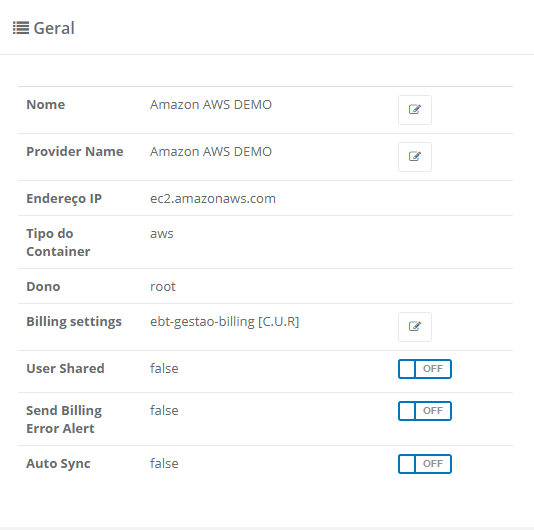
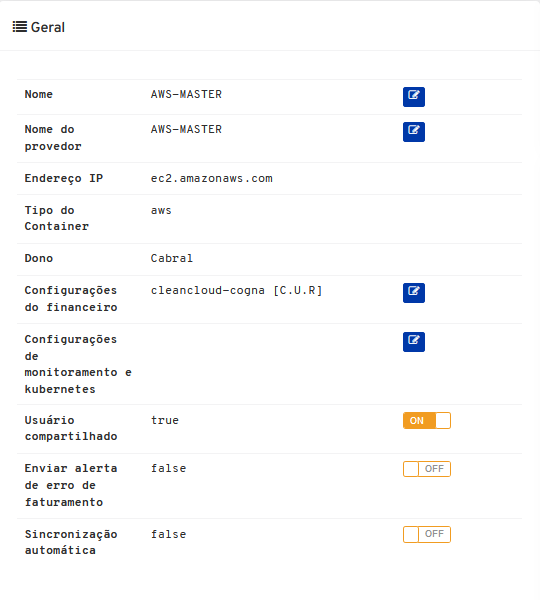
Finalizado menu container e novas telas

diff --git a/Manuais/usr-manual.rst b/Manuais/usr-manual.rst
@@ -3630,10 +3630,10 @@ Portanto, a fórmula para apresentação dos valores dos recursos computacionais
 
 +-----------------------+-------------------+----+-------------------+----+-------------+----+----------------------+
 || **Valor Reais (R$)** || Valor do Recurso ||   || Somatória Mensal ||   || Valor US$  ||   || Taxa de Faturamento |
-||     Total Mensal     || em USN/h         || x || do Consumo USN   || X || [Dia] PTAX || X ||                     |
+||    Total Mensal      || em USN/h         || x || do Consumo USN   || x || [Dia] PTAX || x ||                     |
 +-----------------------+-------------------+----+-------------------+----+-------------+----+----------------------+
 || **Valor Reais (R$)** || Valor do Recurso ||   || Somatória Mensal ||   || Valor US$  ||   || Taxa de Faturamento |
-||    Total Mensal      || em USN/h         || x || do Consumo USN   || X || [Fixa]     || X ||                     |
+||    Total Mensal      || em USN/h         || x || do Consumo USN   || x || [Fixa]     || x ||                     |
 +-----------------------+-------------------+----+-------------------+----+-------------+----+----------------------+
 
 
@@ -3736,11 +3736,13 @@ Menu Containers
 O termo Containers na Plataforma do uCloud é utilizado para representar um Hypervisor, seja este público e/ou privado. Um container é uma abstração lógica para agrupar todos os recursos (máquinas virtuais, servidores, discos, storages) de um determinado tipo de hypervisor. Por exemplo, um container privado representa a conexão com uma instância do VMware vCenter, com um Pool do XenSever ou com o Keystone do Openstack.
 
 Em relação aos provedores de serviço de nuvem pública, a Plataforma do uCloud está preparada para se conectar com as seguintes plataformas de nuvem pública:
+
 * Amazon Web Services (AWS)
 * Google Cloud Platform (GCP)
 * Microsoft Azure
 
 Atualmente, a Plataforma do uCloud está preparada para se conectar com as seguintes plataformas (hypervisors) de gerenciamento de ambiente de nuvem privada:
+
 * VMware (vCenter Versões 5.0, 5.1, 5.5, 6.0, 6.5, 6.7);
 * vCloud
 * Openstack
@@ -3754,11 +3756,88 @@ Depois do provisionamento de um container, a Plataforma do uCloud efetua a ‘im
 
 Quando o usuário acessa o menu Containers, a Plataforma do uCloud apresenta uma lista com os containers provisionados no ambiente do uCloud.
 
+.. image:: /figuras/ucloud_menu_container001.png
+   :alt: Virtual Datacenter - Exemplo
+   :scale: 80 %
+   :align: center
+
+----
+
+* **Botão Conectar Container**: Este botão permite ao usuário configurar e conectar um novo container.
+* **Botão Refresh**: A Plataforma do uCloud se comunica com o console dos provedores através da API Rest, toda ação executada ou configurada, nas telas do uCloud envia ações (tarefas) para o gerenciador de ambiente (console) de nuvem específico (público e/ou privado) para que estes então executem a ação desejada. Ao atualizar apenas o conteúdo das seções de tela (ou as informações contidas nestas seções) é mandatório ao usuário clicar com o mouse sobre o botão Refresh, em seguida ao clique, a Plataforma do uCloud executa apenas a atualização das informações contidas em nossas bases de dados.
+* **Nome**: Esta coluna apresenta o nome do container informado e identificado no momento do seu provisionamento na Plataforma do uCloud.
+* **Endereço do Container**: Esta coluna apresenta o endereço lógico do container, esta informação é extraída automaticamente do ambiente do provedor de serviço de nuvem (público e/ou privado).
+* **Tipo**: Esta coluna apresenta o tipo do container, em outras palavras, o tipo do provedor de serviço de nuvem (público/privado) de forma resumida.
+
 Gerenciando um Container
 ------------------------
 
+Ao selecionar o menu Container, a Plataforma do uCloud, apresenta uma extensa tela com diversas seções (card). Para efeito didático, houve um recorte na imagem total da tela, com o objetivo de descrever e detalhar cada seção de forma individual.
+
+.. image:: /figuras/ucloud_menu_container002.png
+   :alt: Virtual Datacenter - Exemplo
+   :scale: 80 %
+   :align: center
+
+----
+
+A seguir a descrição detalhada de cada seção:
+
+* **Botão Sync Container**: Este botão pode ser acionado quando o usuário deseja sincronizar todos os dados referente a ‘importação’ do container de um provedor de serviço de nuvem pública (AWS, Azure, GCP) com a Plataforma uCloud. Importante ressaltar que a sincronização do container é automática, ocorrendo a cada período de duas (02) horas. Este botão pode ser útil ao usuário que deseja ativar a sincronização de forma manual a qualquer instante.
+* **Botão Rebuild Consoles**: Este botão pode ser acionado quando o usuário deseja sincronizar todos os dados referente a ‘importação’ do container de um provedor de serviço de nuvem privada (VMware, vCloud, Hyper-v, KVM, Openstack) com a Plataforma uCloud. Este botão pode ser útil ao usuário que deseja ativar a sincronização de forma manual a qualquer instante.
+* **Botão Excluir Container**: O usuário deve clicar com o cursor do mouse sobre este botão quando for necessário remover um Container previamente provisionado. Importante ressaltar que a remoção do container irá somente “desconectar” a Plataforma do uCloud das credenciais de acesso do provedor de serviço de nuvem (público e/ou privado). Portanto, a exclusão de um Container não expurga (remove) qualquer máquina virtual existente. Quando clicar sobre este botão a Plataforma do uCloud solicita a confirmação da remoção do Container.
+
+* **Seção Geral**: Esta seção apresenta as informações básicas referentes ao container, conforme a tela abaixo:
+
+.. image:: /figuras/ucloud_menu_container003.png
+   :alt: Virtual Datacenter - Exemplo
+   :scale: 80 %
+   :align: center
+
+----
+
+  * **Nome**: Este campo apresenta o nome informado pelo usuário no momento da configuração do Container. Veja no documento Manual do Administrador uCloud para detalhes e procedimentos de configuração de um container na Plataforma do uCloud.
+
+  * **Provider Name**: Este campo apresenta a identificação genérica do Container informado pelo usuário no momento da configuração do container. Veja no documento Manual do Administrador uCloud para detalhes e procedimentos de configuração de um container na Plataforma do uCloud.
+
+  * **Endereço IP**: Este campo apresenta a identificação do Endereço TCP-IP do provedor de serviço de nuvem pública. Este campo é preenchido e atualizado automaticamente pela conexão da Plataforma do uCloud com o provedor de serviço de nuvem pública, o usuário não tem nenhuma interação com este conteúdo.
+
+  * **Tipo do Container**: Este campo exibe o nome do tipo do Container que a Plataforma do uCloud apresenta na lista tipo “dropdown” selecionado no processo de configuração de um container pelo usuário.
+
+  * **Dono**: Este campo apresenta as credenciais do usuário responsável pelo provisionamento e configuração do container no ambiente da Plataforma do uCloud. Importante ressaltar que apenas o usuário com perfil “Administrador” pode efetuar a configuração de um container. Veja no documento Manual do Administrador uCloud para detalhes e procedimentos de configuração de um container na Plataforma do uCloud.
+
+  * **Configurações do Financeiro**: Neste campo está representada a configuração de como a Plataforma do uCloud deve obter o arquivo de billing do provedor de serviço de nuvem pública (.CSV). Cada provedor (AWS, Azure e GCP) possui uma configuração específica e particular, consultar o documento Manual do Administrador uCloud para detalhes e procedimentos de configuração do billing de um container na Plataforma do uCloud. **ATENÇÃO não alterar ou apagar a configuração provisionada neste campo, esta ação irá remover e apagar toda a informação para a obtenção do billing dos recursos computacionais deste provedor de serviço de nuvem**.
+
+  * **Configurações de monitoramento e Kubernetes**: Este campo permite informar uma credencial que permite o monitoramento de recursos computacinais de nuvem, bem como o *token* de acesso para o ambiente de monitoramento Kubernete. **ATENÇÃO Não altere ou apague a informação contida neste campo, esta ação irá desligar e desconectar por completo o ambiente de monitoramento deste container**.
+
+  * **Enviar Alerta de Erro de Faturamento**: Este botão quando ativado irá enviar qualquer mensagem de correio eletrônico, para o email das credenciais informadas no campo Dono acima, nos eventos que a Plataforma do uCloud defrontar com qualquer tipo de incoerência (um erro) durante o processo de sincronização do arquivo de billing (.csv) do provedor de serviço de nuvem pública.
+
+  * **Sincronização Automática**: Este botão permite ao usuário selecionar a ativação do processo de sincronização do container de forma automática ou não. Importante mencionar: quando selecionado ‘Auto Sync: Não’ o usuário deve efetuar a sincronização manual das informações do container.
+
+* **Seção Template**: Nesta seção estão listadas todas as opções referente ao recurso computacional template (sistema operacional) específico do provedor de serviço de nuvem pública selecionado. Esta relação não é passível de ser editada nesta tela, pois esta relação é obtida no processo de sincronização do container. O usuário vinculado, como Administrador de Grupo ou Administrador de Contrato, pode restringir a exibição destas opções através da edição de recursos do Virtual Datacenter. Veja o item Editando um Virtual Datacenter.
+
+* **Seção Storages**: Nesta seção estão listadas todas as opções referente ao recurso computacional storage (armazenamento) específico do provedor de serviço de nuvem pública selecionado. Esta relação não é passível de ser editada nesta tela, pois esta relação é obtida no processo de sincronização do container.
+
+* **Seção Flavors**: Nesta seção estão listadas todas as opções referente ao recurso computacional flavor (configuração do hardware da máquina virtual, CPU, memória e disco) específico do provedor de serviço de nuvem pública selecionado. Esta relação não é passível de ser editada nesta tela, pois esta relação é obtida no processo de sincronização do container. O usuário vinculado, como Administrador de Grupo ou Administrador de Contrato, pode restringir a exibição destas opções através da edição de recursos do Virtual Datacenter. Veja o item Editando um Virtual Datacenter.
+
+* **Seção Regiões**: Nesta seção estão listadas todas as opções referente ao recurso computacional Região Global específica do provedor de serviço de nuvem pública selecionado. Esta relação não é passível de ser editada nesta tela, pois esta relação é obtida no processo de sincronização do container. O usuário vinculado como Administrador de Grupo ou Administrador de Contrato, pode restringir a exibição destas opções através da edição de recursos do Virtual Datacenter. Veja o item Editando um Virtual Datacenter.
+
+* **Seção Redes**: Nesta seção estão listadas todas as opções referente ao recurso computacional de rede de dados, específica do provedor de serviço de nuvem pública selecionado. Esta relação não é passível de ser editada nesta tela, pois a relação é obtida no processo de sincronização do container. O usuário vinculado como Administrador de Grupo ou Administrador de Contrato, pode restringir a exibição destas opções através da edição de recursos do Virtual Datacenter. Veja o item Editando um Virtual Datacenter.
+
+* **Seção Políticas de Permissionamento**: Nesta seção é possível criar Políticas de Permissionamento específicas para cada ambiente do provedor de serviço de nuvem pública. Desta forma mesmo que esta seja provisionada através da Plataforma uCloud, a política de permissionamento ficará válida para quaisquer ações efetuadas através da interface da Plataforma uCloud e, também, fica válida para quaisquer ações efetuadas pelo usuário diretamente no console do provedor de serviço de nuvem pública.
+
+* **Seção Máquinas Virtuais**: Nesta seção a Plataforma uCloud apresenta a lista de máquinas virtuais que existiam no ambiente do provedor de serviço de nuvem pública e, durante o processo de provisionamento do container, o usuário Administrador do Contrato selecionou a opção *Importar sem Recursos desligado*. Esta opção desligada indica a Plataforma uCloud para importar todos os recursos computacionais de serviço de nuvem pública exitentes. Desta forma, após a conexão do Container e terminada a sincronização, serão exibidas nesta tabela todas as máquinas virtuais previamente exitentes no ambiente e que ficarão vinculadas a este container. Esta relação de máquinas virtuais poderá ser alterada (adição e remoção) por decorrência de quaisquer alterações no ambiente do provedor de serviço de nuvem pública - sejam estas ações executadas através do console do provedor ou através do provisionamento/operação de recursos computacionais através da interface da Plataforma uCloud.
+
+* **Seção Notificações**: Esta seção apresenta uma relação diária de mensagens (*log*) do ambiente do provedor de serviço de nuvam pública, decorrente da comunicação via API-Rest com a Plataforma uCloud. Esta relação pode ser útil para identificar potenciais problemas de comunicação da Plataform uCloud com o console do provedor de serviço de nuvem pública.
+
+
 Criando Novo Container
 ----------------------
+
+O processo de provisionamento de Container é restrito para usuários com perfil Administrdor de Contrato e com permissão de criação de novas credenciais no console do provedor de serviço de nuvem.
+
+Entre em contato com a equipe de Suporte Tecnico (chamados@usto.re) e solicite o acesso a documentação específica do processo de provisionamento de credenciais IAM no console do provedor de serviço de nuvem pública e, também, acesso a documentação do Administrador da Plataforma uCloud, para provisionar um novo container para seu ambiente.
+
 
 Menu Hosts
 ==========
@@ -3766,6 +3845,7 @@ Menu Hosts
 O termo “Hosts” na Plataforma do uCloud é utilizado para representar um servidor físico (hardware) encarregado de dar suporte e executar um hypervisor on-premises (privado). Portanto, somente após o completo provisionamento do recurso de hardware (physical host - servidor físico) este deve ser provisionado e vinculado a uma nuvem privada (container) na Plataforma do uCloud. Por exemplo, um novo servidor privado que seja responsável por executar uma instância do VMware vCenter ou um Pool do XenServer ou com o Keystone do OpenStack.
 
 Atualmente, a Plataforma do uCloud está preparada para conectar-se com as seguintes plataformas (hypervisors) de gerenciamento de ambiente de nuvem privada:
+
 * VMware (vCenter Versões 5.0, 5.1, 5.5, 6.0, 6.5, 6.7)
 * vCloud
 * OpenStack versão Mitaka ou superior
@@ -3932,7 +4012,7 @@ D. **Virtual Private Gateway**: é um dispositivo físico ou uma aplicação de 
 
 .. image:: /figuras/ucloud_menu_vpn001.png
    :alt: Virtual Datacenter - Exemplo
-   :scale: 30 %
+   :scale: 10 %
    :align: center
 
 ----
@@ -4022,9 +4102,9 @@ Caro usuário, mais uma vez é enfatizada, fortemente, a ação de buscar inform
 
 Ao criar uma VPN em nuvem pública o usuário deve seguir a seguinte ordem no processo de provisionar corretamente uma conexão VPN (Túnel VPN), é necessário provisionar cada item isolado e sequencialmente:
 
-#. Customer Gateway,
+#. Customer Gateway
 #. Private Gateway
-#. Túnel VPN.
+#. Túnel VPN
 
 Abaixo segue a descrição de cada etapa do processo.
 
@@ -4055,9 +4135,9 @@ Abaixo a descrição dos campos desta tela:
 
 * **Endereço IP**: Este campo é obrigatório, o usuário deve informar o Endereço TCP-IP do gateway da VPN: Por representar um CIDR da rede interna do provedor, o usuário deve verificar se existe alguma Rede (Sub-rede) anteriormente provisionada para a região global selecionada no campo anterior.
 * **Agendar**: Este ícone permite ao usuário agendar o provisionamento do Customer Gateway, o valor padrão é Desabilitado (cor vermelha).
-* **Ícone Desabilitado** |icone_habilita_off|: Este ícone indica que não existe agendamento estabelecido. Isto significa que este Customer Gateway será imediatamente provisionado no ambiente do provedor de serviço de nuvem pública, basta o usuário clicar com o cursor do mouse no botão Criar (cor verde).
-* **Ícone Habilitado** |icone_habilita_on|: Este ícone indica que o usuário pretende agendar uma data para o provisionamento de um Customer Gateway, no ambiente do provedor de serviço de nuvem pública. Este processo permite escolher a melhor data para que o recurso computacional de nuvem possa iniciar sua cobrança de valores em datas pré-definidas, pela empresa usuária da Plataforma do uCloud. Quando o usuário clicar no botão e alterar o ícone para habilitado (cor verde), a Plataforma do uCloud permite inserir a data desejada.
-* **Ícone Calendário** |icone_calendario|: Basta o usuário clicar sobre o ícone do calendário para a Plataforma do uCloud apresentar na tela o ‘pop-up’ que permite o usuário selecionar a data desejada, conforme a imagem abaixo:
+* **Ícone Desabilitado** |icone_desb_verm|: Este ícone indica que não existe agendamento estabelecido. Isto significa que este Customer Gateway será imediatamente provisionado no ambiente do provedor de serviço de nuvem pública, basta o usuário clicar com o cursor do mouse no botão Criar (cor verde).
+* **Ícone Habilitado** |icone_habil_verde|: Este ícone indica que o usuário pretende agendar uma data para o provisionamento de um Customer Gateway, no ambiente do provedor de serviço de nuvem pública. Este processo permite escolher a melhor data para que o recurso computacional de nuvem possa iniciar sua cobrança de valores em datas pré-definidas, pela empresa usuária da Plataforma do uCloud. Quando o usuário clicar no botão e alterar o ícone para habilitado (cor verde), a Plataforma do uCloud permite inserir a data desejada.
+* **Ícone Calendário** |icone_agenda|: Basta o usuário clicar sobre o ícone do calendário para a Plataforma do uCloud apresentar na tela o ‘pop-up’ que permite o usuário selecionar a data desejada, conforme a imagem abaixo:
 
 .. image:: /figuras/ucloud_menu_maquinas_virtuais_035b.png
    :alt: Virtual Datacenter - Exemplo
